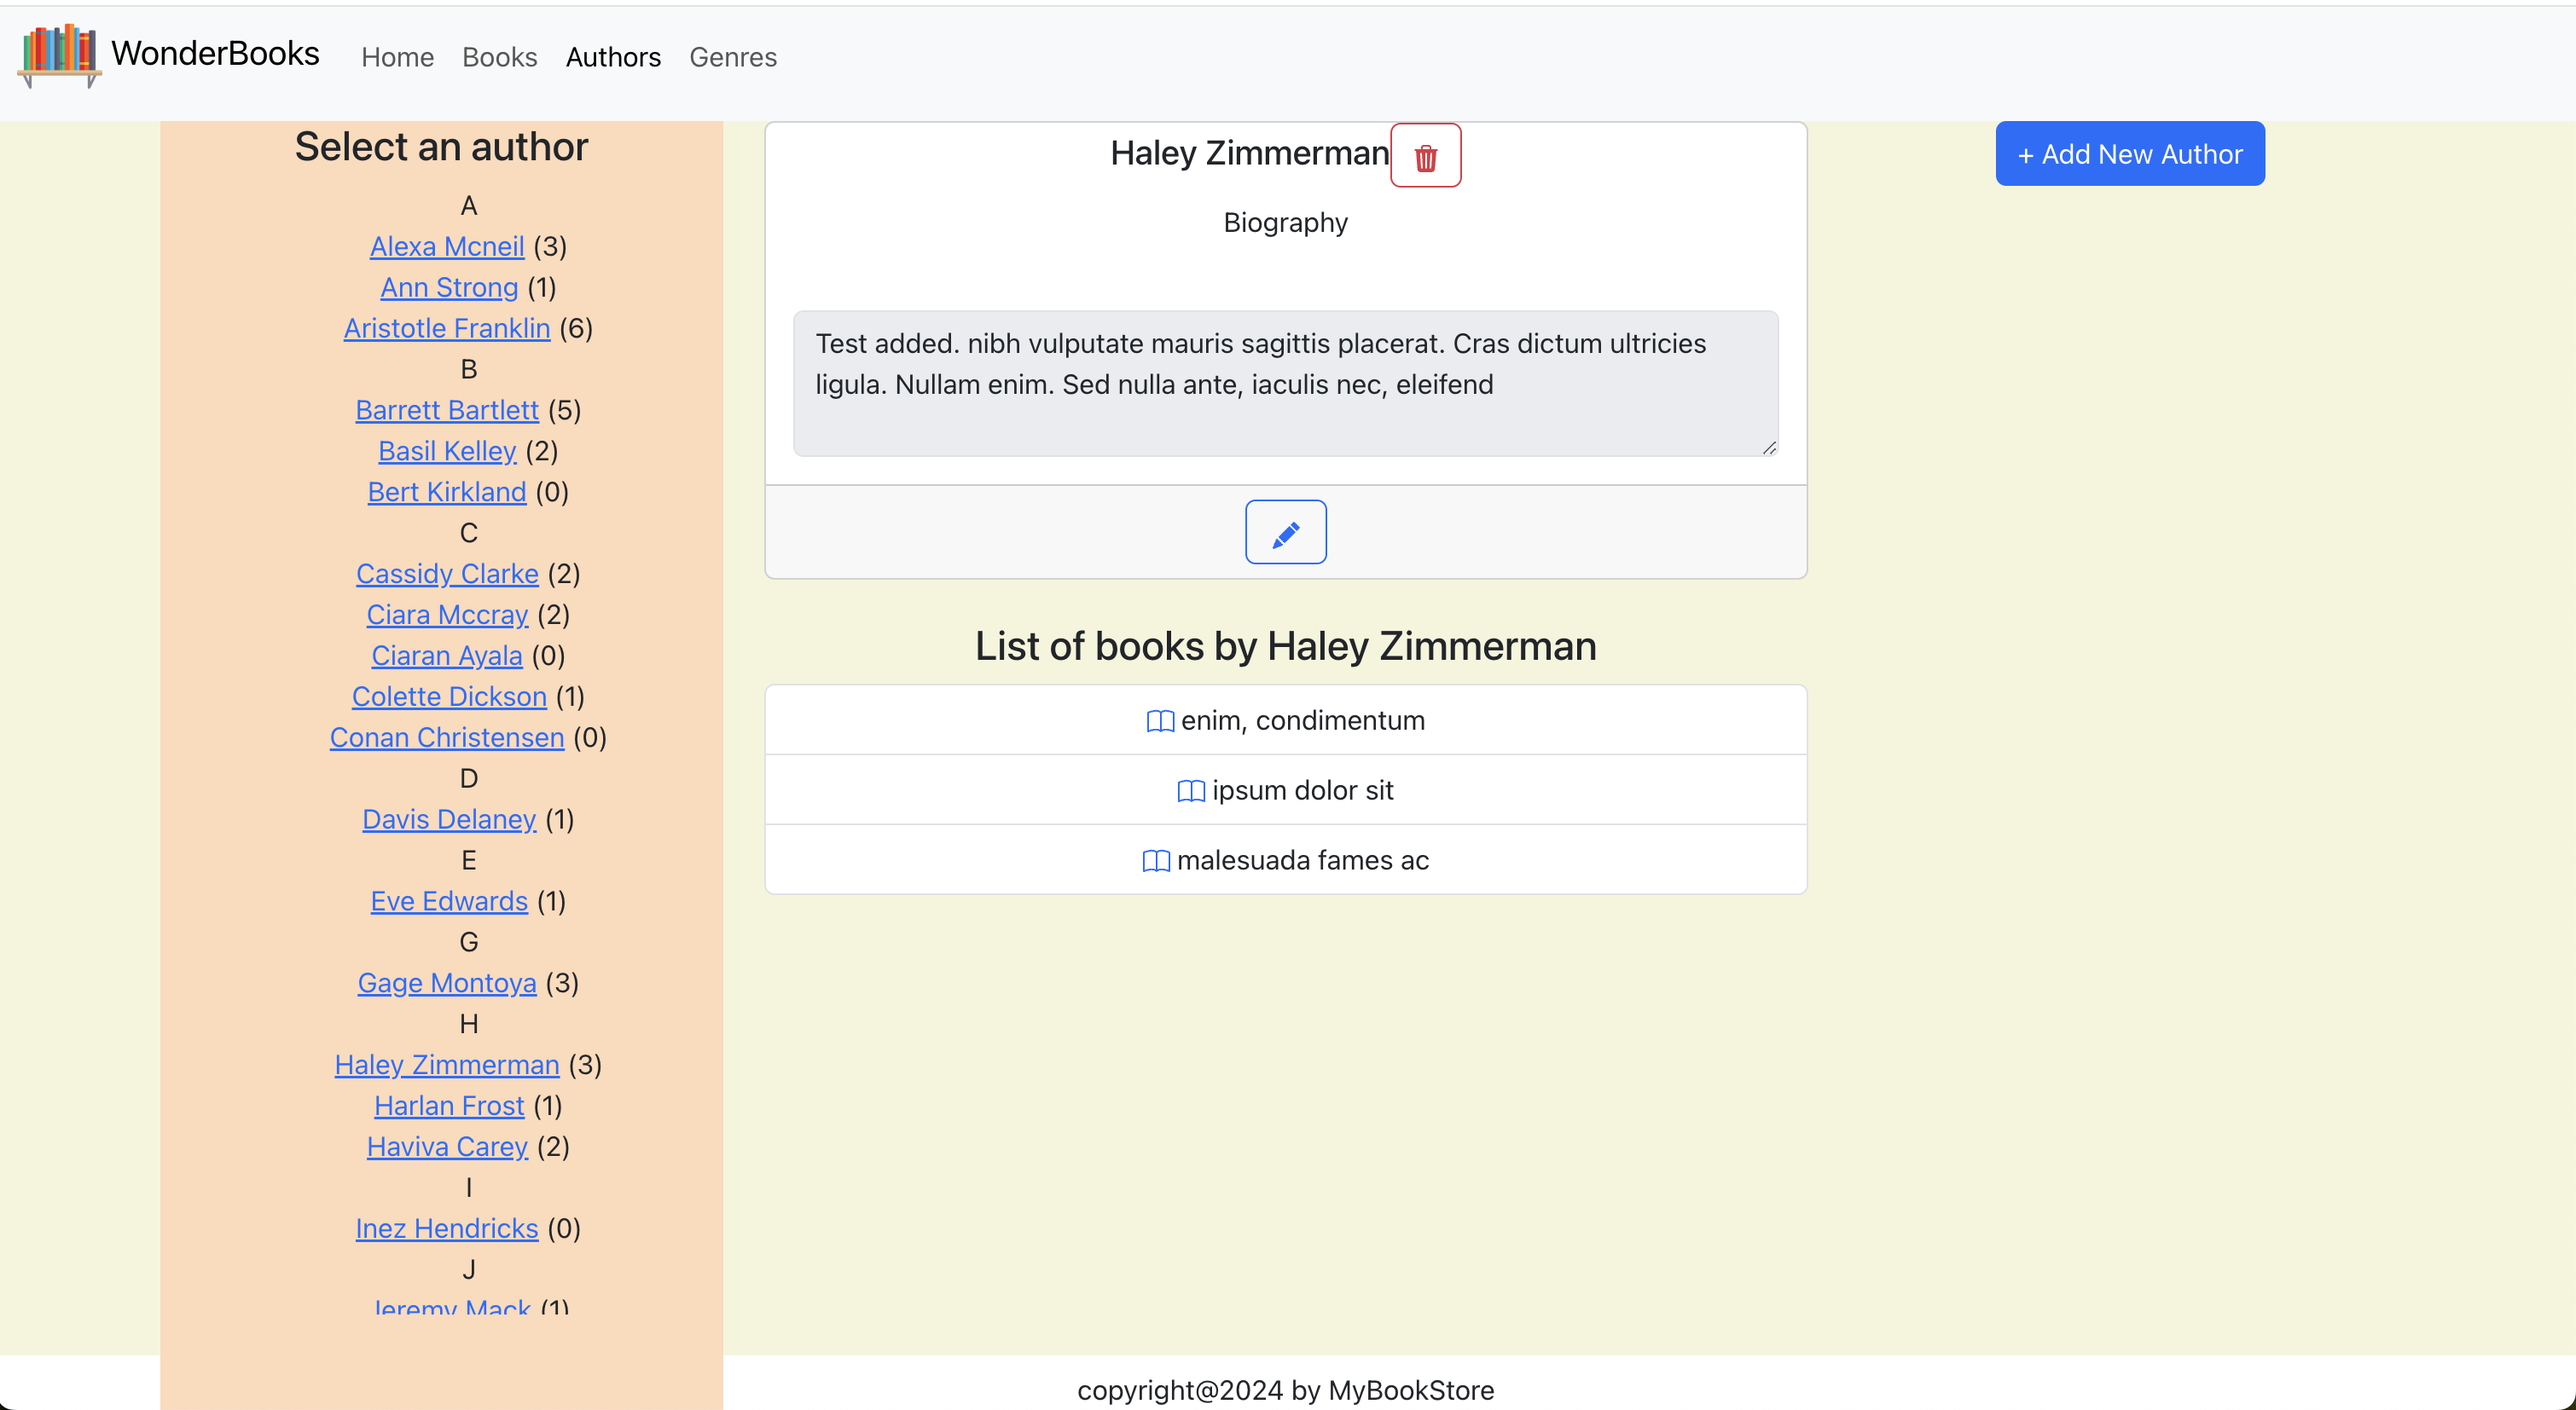
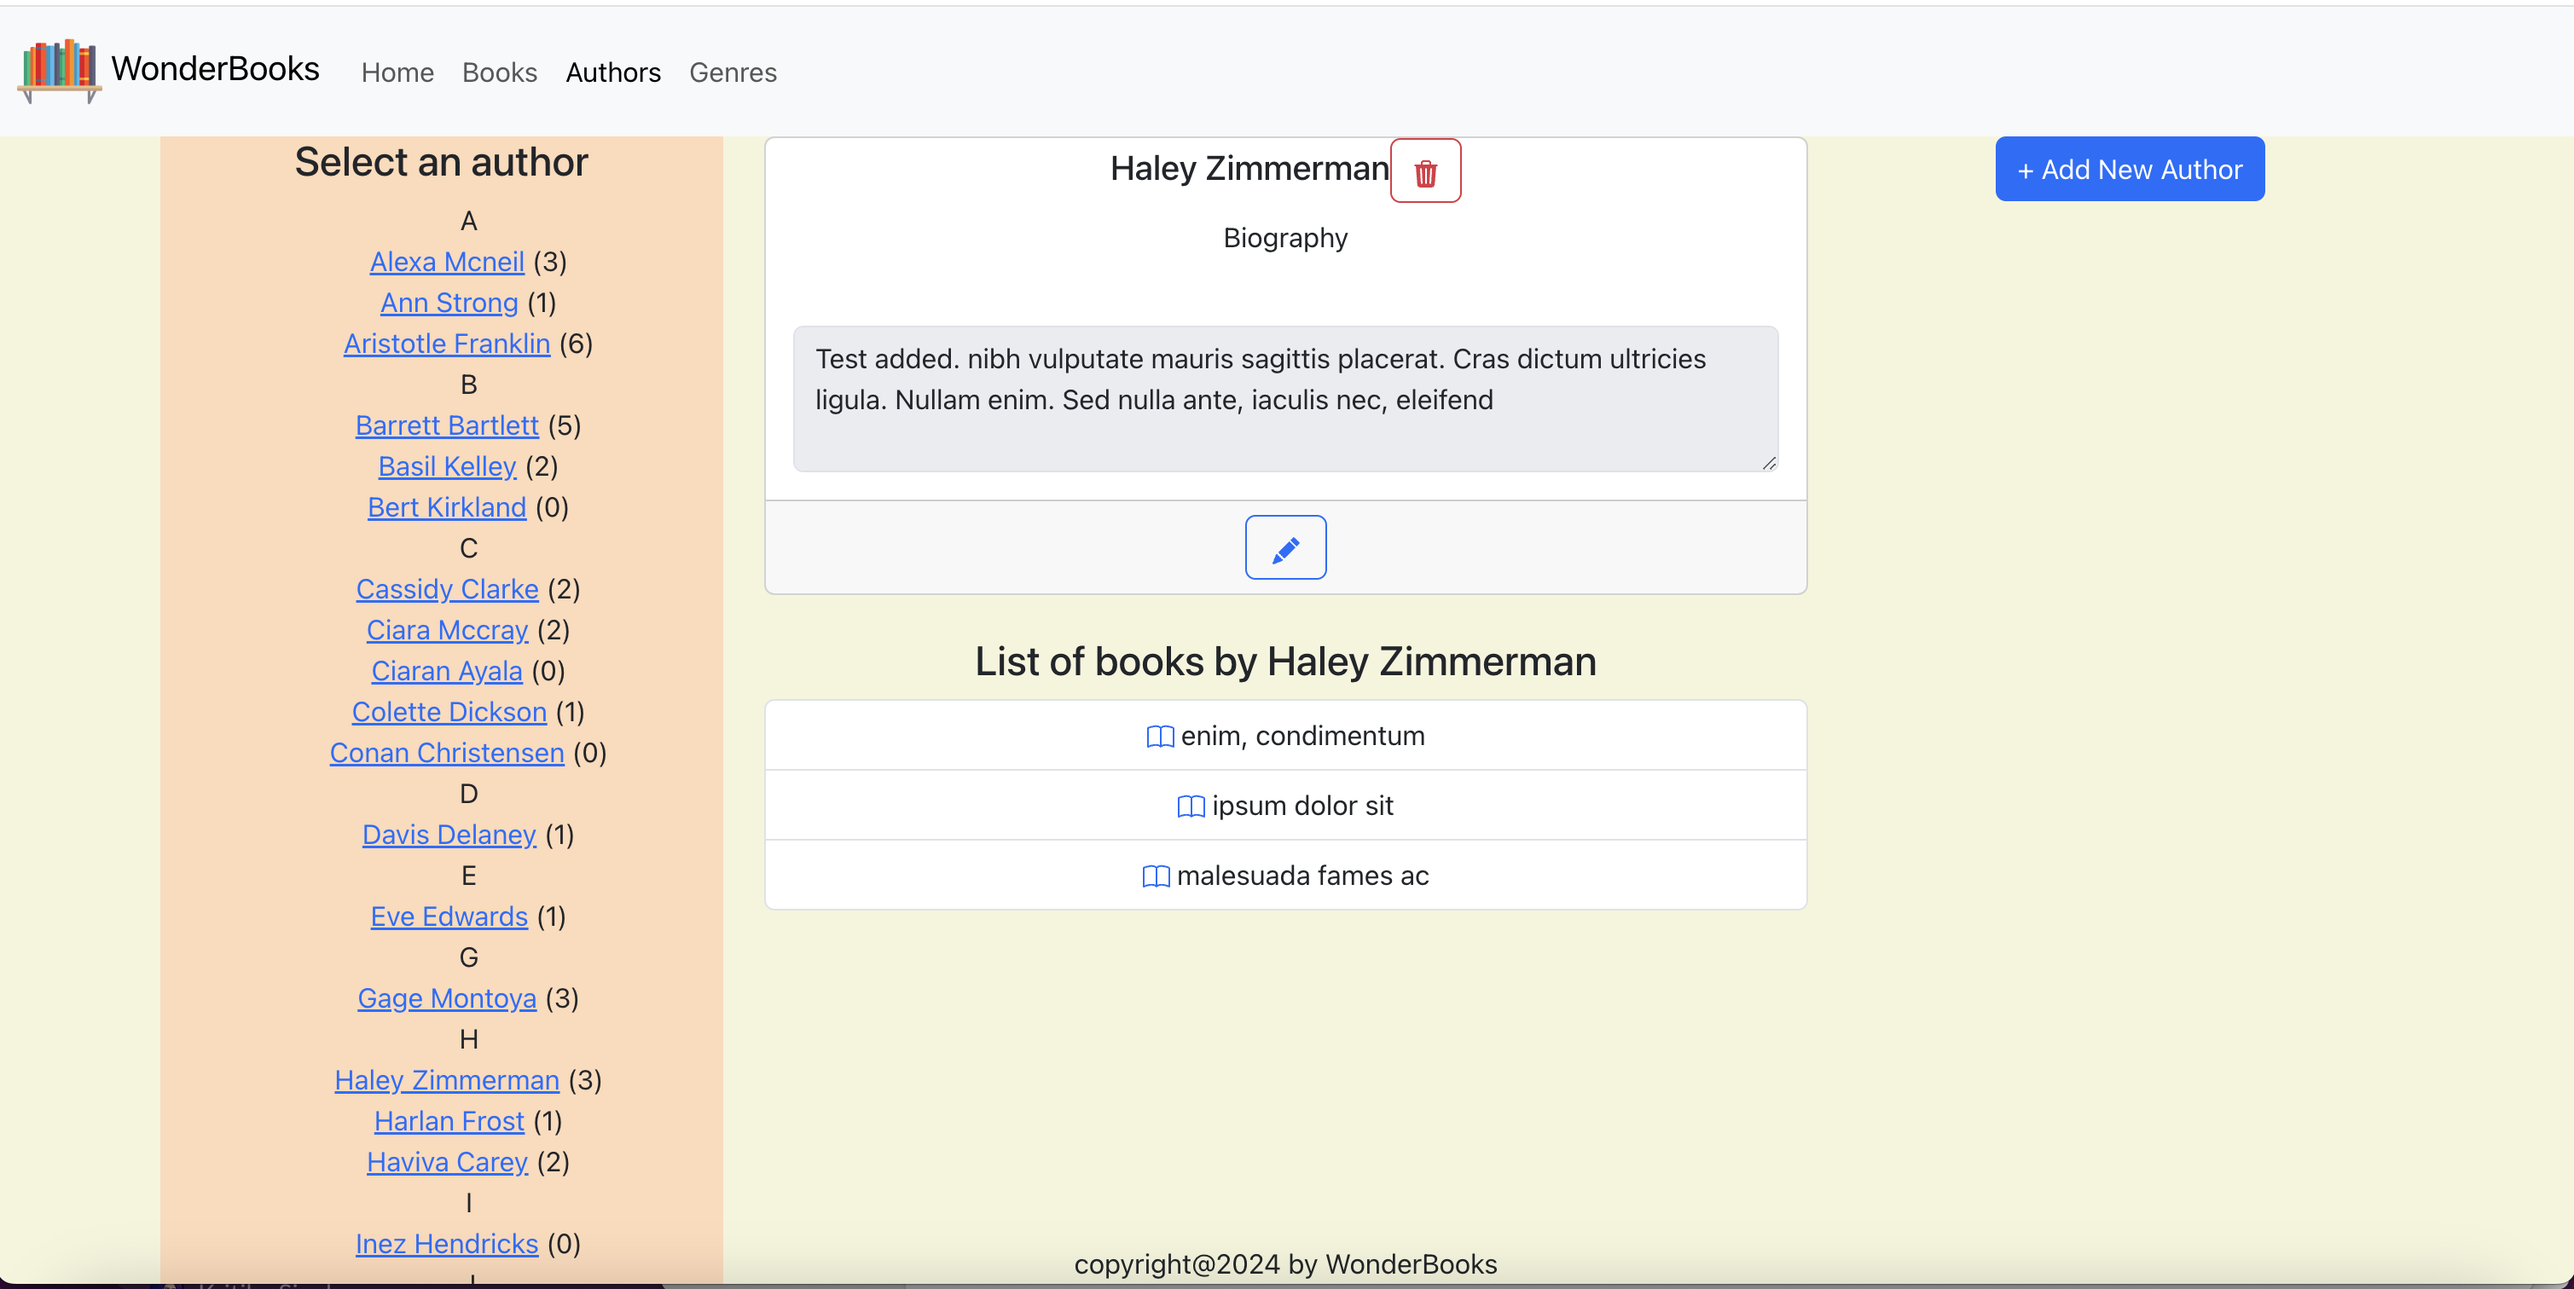
updated styling

diff --git a/frontend/src/Home.js b/frontend/src/Home.js
@@ -21,19 +21,19 @@ export default function Home () {
               <Carousel.Item>
                 <img src={imageBook} alt={"window"} className="imageBig"></img>
                 <Carousel.Caption>
-                <h3>View, Update, Add or Delete books and authors easily</h3>
+                <p>View, Update, Add or Delete books and authors easily</p>
                 </Carousel.Caption>
             </Carousel.Item>
             <Carousel.Item>
                 <img src={imageAuthor} alt={"window"} className="imageBig"></img>
                 <Carousel.Caption>
-                <h3>Find books by author, title or genre</h3>
+                <p>Find books by author, title or genre</p>
                 </Carousel.Caption>
             </Carousel.Item>
             <Carousel.Item>
                 <img src={imageGenre} alt={"window"} className="imageBig"></img>
                 <Carousel.Caption>
-                <h3>Organize your book store with this easy to use interface</h3>
+                <p>Organize your book store with this easy to use interface</p>
                 </Carousel.Caption>
             </Carousel.Item>
             </Carousel>

diff --git a/frontend/src/components/BookDetails.js b/frontend/src/components/BookDetails.js
@@ -174,7 +174,7 @@ export function LoadBookDetails(props) {
                     </ListGroup>
                 </Card.Body>
                 <Card.Footer>Price: {(book) ? book.price: responseData.price}</Card.Footer>
-                <Button type="button" className="btn btn-info" onClick={()=> {
+                <Button type="button" className="update-btn" onClick={()=> {
                     //</Container>navigate(`/BookDetails/${responseData.book_id}`)
                     setShow(true);
                 }}> Click to update record </Button>

diff --git a/frontend/src/css/styles.css b/frontend/src/css/styles.css
@@ -23,8 +23,8 @@ footer
 }
 
 .imageBig {
-    height: 600px;
-    width: 800px;
+    height: 500px;
+    width: 700px;
 }
 
 .firstCol {
@@ -37,12 +37,18 @@ ul, li {
     margin: 0;
     padding: 0;
   }
-
-.authors {
+ 
+.firstCol {
     height: 700px;
     overflow: scroll;
 }
 
 .home {
     background-color: peachpuff;
+}
+
+div > .update-btn {
+    background-color: transparent;
+    color: indigo;
+    border-color: transparent;
 }

diff --git a/frontend/src/components/ListGenres.js b/frontend/src/components/ListGenres.js
@@ -135,6 +135,7 @@ export default function ListGenres() {
         </Col>
         <Col xs md lg={3}>    
         <Button onClick={()=> {setAddNew(true); setBook(null); setGenre(null)}}> {" + "} Add New Genre </Button>
+        <br/><br/>
                 {(book) &&
                 <LoadBookDetails book_id={book.book_id}></LoadBookDetails>           }
         </Col>

diff --git a/frontend/src/components/Footer.js b/frontend/src/components/Footer.js
@@ -5,7 +5,7 @@ export default function CustomFooter()
     return (
     <footer>         
         <div>
-        copyright@2024 by MyBookStore 
+        copyright@2024 by WonderBooks 
         </div>
     </footer>
     )
